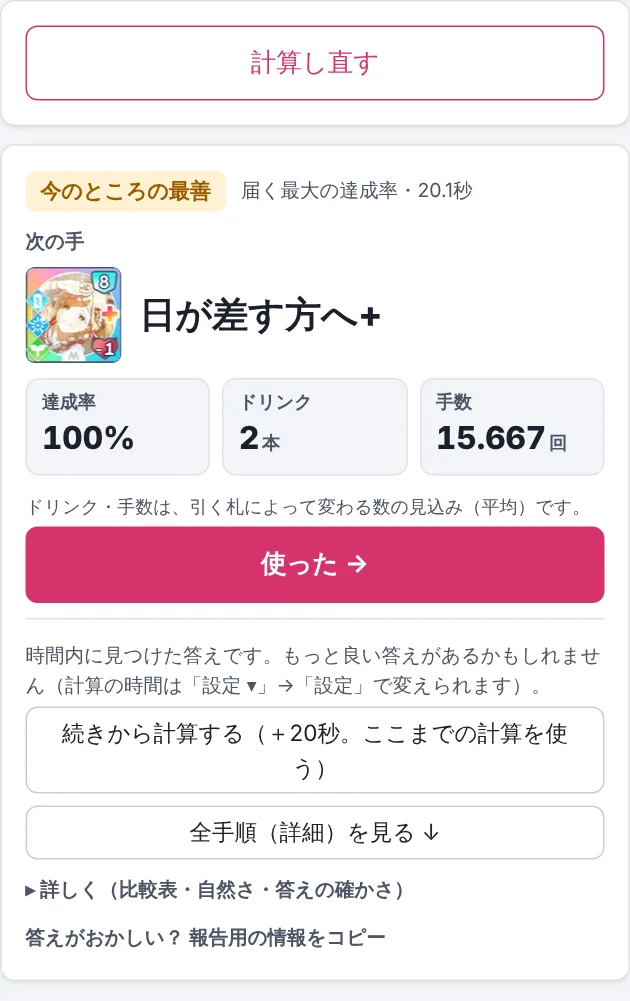
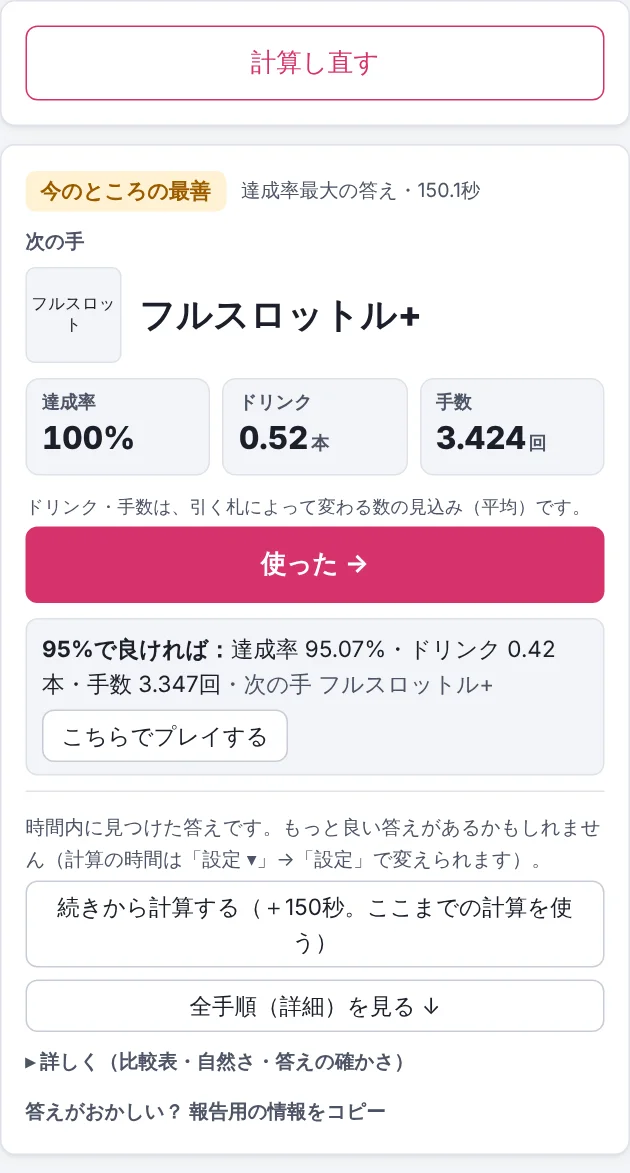
Solitaire Lab 1.8.0

Changed region(s): [[0.0302, 0.0, 0.9651, 0.96], [0.573, 0.2478, 0.6635, 0.2787]]

diff --git a/js/answer.js b/js/answer.js
@@ -97,7 +97,7 @@ function resultView(R, rerender, {checkList} = {}) {
   const box = h('section.panel.ans', {});
   const add = (...xs) => box.append(...xs.filter(x => x));   // false・null は出さない
   add(h('div.ansHead', {}, h('span.status', {class: stCls, title: stDesc}, stName + (R.canceled ? '（中止）' : '')),
-    h('span.hint', `${critText(R.criterion).replace('100%にできれば100%、できなければ届く最大の達成率', '届く最大の達成率')}・${(R.ms / 1000).toFixed(1)}秒`)));
+    h('span.hint', `${R.criterion === 'max' ? '達成率最大の答え' : `${R.criterion}%で良ければの答え`}・${(R.ms / 1000).toFixed(1)}秒`)));
   for (const n of R.notes || []) add(h('p.warnline', n));   // 計算の部品の注意書き
   if (R.followed) add(h('p.hint', '前の局面の最適の答えから読み出しました（計算し直していません。答えは計算し直したときと同じです）。'));
   if (R.keptPrev) add(h('p.hint', '予算を増やして計算し直しましたが、前の答えより良い答えは見つからなかったので、前の答えを残しました。'));
@@ -140,6 +140,8 @@ function resultView(R, rerender, {checkList} = {}) {
       h('div.row', {}, h('button.mini', {onclick: () => { steps.pop(); save(); rerender(); }}, '1つ戻す'), h('button.mini', {onclick: () => { S.play = {steps: []}; save(); rerender(); }}, '最初から'))));
   } else add(h('div.lbl', '次の手'), nextView(R, false));
 
+  // もう一方の答え（達成率最大 ⇔ 95%で良ければ）：1行で出し、「こちらでプレイする」で入れ替える（1.8.0、利用者の決定 A）
+  if (R.alt && !(S.play?.steps?.length)) add(altView(R, rerender));
   // 暫定（予算切れ・中止）：予算を2倍にして計算し直す道を出す。達成率0%の暫定は、届かないと決まったわけではないことを書く
   if (kind !== 'optimal') {
     const sec = Math.round((R.budgetSec ?? S.settings.budgetSec) * 2), states = Math.round((R.maxStates ?? S.settings.maxStates) * 2);
@@ -168,6 +170,23 @@ function resultView(R, rerender, {checkList} = {}) {
   if (detailsOpen) add(details(R, kind, stName, stCls));
   add(h('button.more', {title: '版・設定・局面・答えをコピーします（個人情報は入りません）', onclick: copyReport}, '答えがおかしい？ 報告用の情報をコピー'));
   return box;
+}
+
+// もう一方の答えの1行。押すと主の答えと入れ替える（局面・予算などの共通の項目は残す）
+const ALT_LABEL = R => R.criterion === 'max' ? '達成率最大なら' : `${R.criterion}%で良ければ`;
+function altView(R, rerender) {
+  const A = R.alt, b = A.best;
+  const swap = () => {
+    const {alt, ...main} = R;
+    const own = ['kind', 'kindLabel', 'status', 'solver', 'scope', 'proven', 'reason', 'best', 'pMax', 'optimalityProven', 'meetsAlpha', 'natural', 'sameEval', 'tree', 'next', 'nextIcon', 'criterion', 'trials', 'stats', 'maxScore', 'notes'];
+    const mainOwn = Object.fromEntries(own.map(k => [k, main[k]]));
+    S.result = {...main, ...Object.fromEntries(own.map(k => [k, A[k]])), alt: mainOwn};
+    S.play = {steps: []}; save(); rerender();
+  };
+  return h('div.altans', {},
+    h('div.altline', {}, h('b', ALT_LABEL(A) + '：'), b ? `達成率 ${b.pText}・ドリンク ${num3(b.dNum)}本・手数 ${num3(b.aNum)}回` : '—', A.next && h('span.altnext', '・次の手 ' + A.next)),
+    A.meetsAlpha === false && A.criterion !== 'max' && h('p.hint', `まだ ${A.criterion}% に届いていません（時間内に見つかった中で一番よい手順）。`),
+    h('button', {onclick: swap}, 'こちらでプレイする'));
 }
 
 // 局面を作る：mid＝プレイの途中から（手札・行動回数のまま）、そうでなければ次のターン

diff --git a/js/worker.js b/js/worker.js
@@ -43,7 +43,8 @@ const CAPS = [20000, 100000];
 const MAX_EST_MIB = 2400;
 const dataKey = m => JSON.stringify([m.calcSettings || null, m.csv.skillCards.length]);
 const followKey = (m, o) => JSON.stringify([m.calcSettings || null, m.csv.skillCards.length, o.criterion, o.order, o.extras]);
-const critOf = o => o.criterion === 'max' ? {criterion: 'max'} : {alpha: ALPHA[o.criterion]};
+// both：達成率最大と α の答えを1回の計算で並べて出す（エンジンの alsoMax。1.8.0、利用者の決定）
+const critOf = o => o.criterion === 'max' ? {criterion: 'max'} : {alpha: ALPHA[o.criterion], ...(o.both ? {alsoMax: true} : {})};
 // 同じ局面で、目標を下げた・基準（比べる順・達成率・自然さ）を変えたときは、前の最適の答えのグラフを使い回す（エンジンの job.retarget、AEGIS_SPEC.md 9.1）。
 // 前の答えの根の局面と同じ（canon が同じ、目標が前以下）で、データが同じときだけ。返り値は {r, model}（model は前の model の目標を変えたもの）
 function tryRetarget(m, model, o) {
@@ -348,7 +349,27 @@ function playTree(model, pol) {
   return {root, nodes};
 }
 
+// 答えを画面の形にする。α の計算で達成率最大の答え（maxResult）もあれば、達成率最大を主に、α の答えを alt に入れて返す（同じ答えなら alt なし）
+// maxResult がない結果（即答 follow・retarget の Tomahawk の結果）は、前線から達成率最大（P 最大 → D 最小 → A 最小）の点を取り出す
 function summarize(model, r, o, ms, final) {
+  if (o.criterion === 'max' || !o.both) return summarize1(model, r, o, ms, final);
+  const mr = r.maxResult !== undefined ? r.maxResult : maxFromFrontier(r);
+  if (!mr || !mr.best) return summarize1(model, r, o, ms, final);
+  const mainR = {...r, best: mr.best, bestRaw: mr.bestRaw, extract: mr.extract, solver: mr.solver || r.solver, meetsAlpha: undefined};
+  const out = summarize1(model, mainR, {...o, criterion: 'max'}, ms, final);
+  const b = r.best;
+  if (b && !(b.p === mr.best.p && b.d === mr.best.d && b.a === mr.best.a)) out.alt = summarize1(model, r, o, ms, final);
+  return out;
+}
+function maxFromFrontier(r) {
+  const fr = r.frontierRaw;
+  if (!Array.isArray(fr) || !fr.length || typeof r.summarize !== 'function' || typeof r.extract !== 'function') return null;
+  let bv = null, bs = null;
+  for (const v of fr) { const s = r.summarize(v); if (!bs || s.pNum > bs.pNum || (s.pNum === bs.pNum && (s.dNum < bs.dNum || (s.dNum === bs.dNum && s.aNum < bs.aNum)))) { bv = v; bs = s; } }
+  return {best: bs, bestRaw: bv, extract: () => r.extract(bv), solver: r.solver};
+}
+
+function summarize1(model, r, o, ms, final) {
   const out = {kind: r.kind || (r.status === 'complete' ? 'optimal' : 'incomplete'), kindLabel: r.kindLabel || '', status: r.status, final,
     solver: r.solver || 'Tomahawk', scope: r.scope || '', proven: r.proven || '', reason: r.reason || '',
     best: fmtBest(r.best), pMax: r.pMaxWithinHorizon ?? null, ms, optimalityProven: r.optimalityProven ?? null,

diff --git a/manual/index.html b/manual/index.html
@@ -51,7 +51,7 @@
 <section class="slide cover">
   <h1>Solitaire Lab 詳細マニュアル</h1>
   <div class="sub">学園アイドルマスターの「ソリティア」で、<br>どの順番で札を使えば目標点に届きやすいかを教えてくれるツールです。</div>
-  <div class="ver">版 1.7.0 ・ ← → キー、または画面の左右を押してページをめくります</div>
+  <div class="ver">版 1.8.0 ・ ← → キー、または画面の左右を押してページをめくります</div>
 </section>
 
 <section class="slide">
@@ -204,8 +204,9 @@
       <li><b>ドリンク</b>：このあと使うドリンクの、平均の本数です。</li>
       <li><b>手数</b>：このあと札やドリンクを使う、平均の回数です（ドリンク・手数は、引く札によって変わる数の見込みです）。</li>
       <li>左上の「<b>最善（確定）</b>」は、すべての手順を調べ終わった、一番よい結果という意味です。</li>
+      <li>答えは「<b>達成率最大</b>」が主で、その下に「<b>95%で良ければ</b>」（達成率 95% 以上でドリンクを少なくする答え）が並びます。「こちらでプレイする」を押すと、プレイの案内がその答えに切り替わります（2つが同じときは1つだけ出ます）。</li>
     </ul>
-    <div class="tip">ヒント：「同じ評価の別の手順があります」と出たときは、ほかにも同じくらい良いやり方があります。</div>
+    <div class="tip">ヒント：「同じ評価の別の手順があります」は、「▸ 詳しく」の中に出ます。</div>
   </div><div class="pic"><img src="img/09b-answer-panel.webp" alt="計算結果"></div></div>
 </section>
 

diff --git a/manual/summary.html b/manual/summary.html
@@ -52,7 +52,7 @@
 <section class="slide cover">
   <h1>Solitaire Lab</h1>
   <div class="sub">学園アイドルマスターの「ソリティア」で、<br>どの順番で札を使えば目標点に届きやすいかを教えてくれるツールです。</div>
-  <div class="ver">概要（6ページ） ・ 版 1.7.0 ・ くわしい使い方は「詳細マニュアル」をご覧ください</div>
+  <div class="ver">概要（6ページ） ・ 版 1.8.0 ・ くわしい使い方は「詳細マニュアル」をご覧ください</div>
 </section>
 
 <section class="slide">
@@ -60,7 +60,7 @@
   <div class="body"><div class="txt">
     <ul>
       <li>ゲームの画面と同じように手札や山札を入れると、<b>次に使う札</b>を教えてくれます。</li>
-      <li>目標点に届く確率と、使うドリンクの本数の目安も表示します。</li>
+      <li>目標点に届く確率と、使うドリンクの本数の目安も表示します。「達成率最大」と「95%で良ければ（ドリンクを節約）」の2つの答えを並べて出します。</li>
       <li>札を使ったあとは、引いた札を選ぶだけで、続けて次の手を案内します。</li>
       <li>すべての手順を一覧表で確認することもできます。</li>
       <li>インストールは不要です。ブラウザで開くだけで使え、データはお使いのブラウザの中だけで扱います。</li>

diff --git a/js/settings.js b/js/settings.js
@@ -24,7 +24,7 @@ export function renderSettings(root, rerender) {
   root.append(h('div.cols.setcols', {},
     h('section.panel', {},
       h('h2', '答えの選び方'),
-      sel('基準', st.criterion, [['max', critText('max') + '（既定）'], ['95', '達成率 95% 以上'], ['99', '達成率 99% 以上'], ['100', '達成率 100%']], v => { st.criterion = v; touch(); }),
+      h('p.note', '答えは「達成率最大」と「95%で良ければ（達成率 95% 以上でドリンクを少なく）」の2つを1回の計算で出し、並べて表示します。プレイの案内は、答えの欄の「こちらでプレイする」で切り替えます。'),
       sel('比べる順', st.order, ORDERS.map(o => [o, orderText(o) + (o === 'dpa' ? '（既定）' : '')]), v => { st.order = v; touch(); }),
       h('p.note', 'D＝期待ドリンク（少ないほど良い）、P＝達成率（高いほど良い）、A＝期待操作（少ないほど良い）。基準を満たす答えの中で、この順に比べます。'),
       h('h3', '自然さ（チェックしたときだけ使う）'),

diff --git a/js/run.js b/js/run.js
@@ -50,7 +50,8 @@ export function startRun(over = {}, {keep = false} = {}) {
   const {setup, target} = buildSetup({deck: dk, phase: P, cards: cardsMap(), items: itemsFor(deck())});
   const phase0 = structuredClone(P);   // 計算した局面（次のターンの局面を作るときの元）
   const st = S.settings;
-  const opts = {criterion: st.criterion, order: st.order, extras: ['ev', 'floor'].filter(k => st.extras[k]), maxMs: Math.max(1, over.budgetSec ?? st.budgetSec) * 1000, maxStates: over.maxStates ?? st.maxStates};
+  // 達成の基準は「達成率最大」と「95%」を並べて出す形に固定（1.8.0、利用者の決定。設定の基準はやめた）
+  const opts = {criterion: '95', both: true, order: st.order, extras: ['ev', 'floor'].filter(k => st.extras[k]), maxMs: Math.max(1, over.budgetSec ?? st.budgetSec) * 1000, maxStates: over.maxStates ?? st.maxStates};
   lastOpts = opts;
   Object.assign(RUN, {status: 'running', stage: '準備中', started: Date.now(), interim: null, error: null, prev});
   S.result = null; S.play = null; save();

diff --git a/style.css b/style.css
@@ -313,3 +313,7 @@ button.ttv { background: var(--panel); }
 button.ttv b { font-size: 16px; }
 .ttv.none { color: var(--sub); font-size: 14px; padding: 4px 8px; }
 .ttcurve summary { cursor: pointer; font-size: 13px; color: var(--sub); margin-top: 6px; }
+/* もう一方の答え（達成率最大 ⇔ 95%で良ければ） */
+.altans { margin: 10px 0; padding: 8px 10px; border: 1px solid var(--line); border-radius: 8px; background: var(--bg); display: flex; flex-wrap: wrap; gap: 6px 10px; align-items: center; }
+.altans .altline { flex: 1 1 260px; }
+.altans .altnext { color: var(--sub); }
